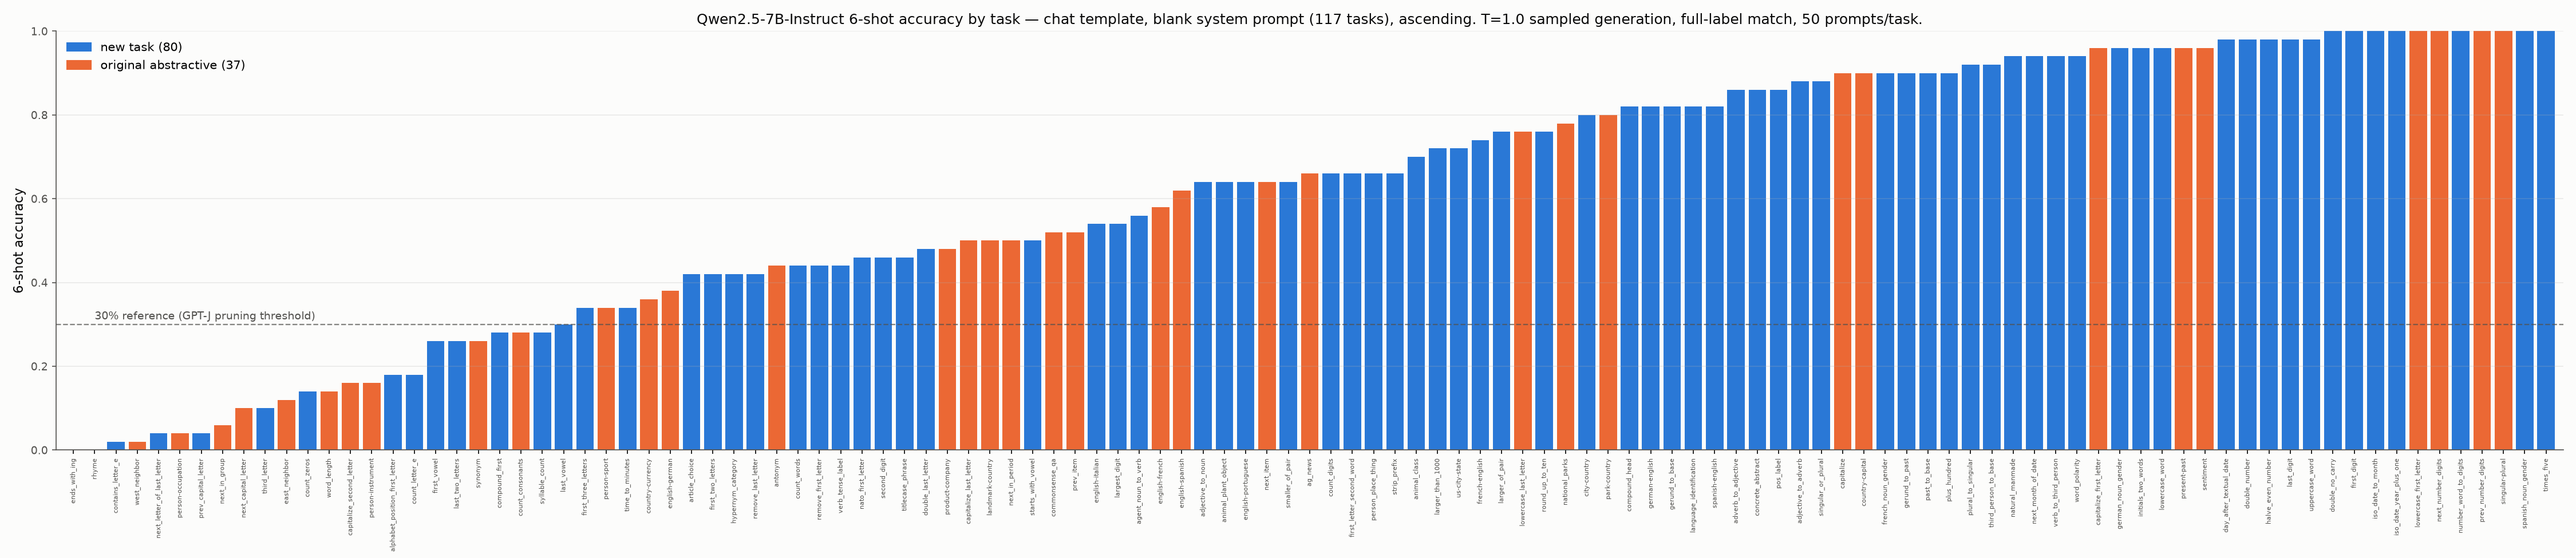
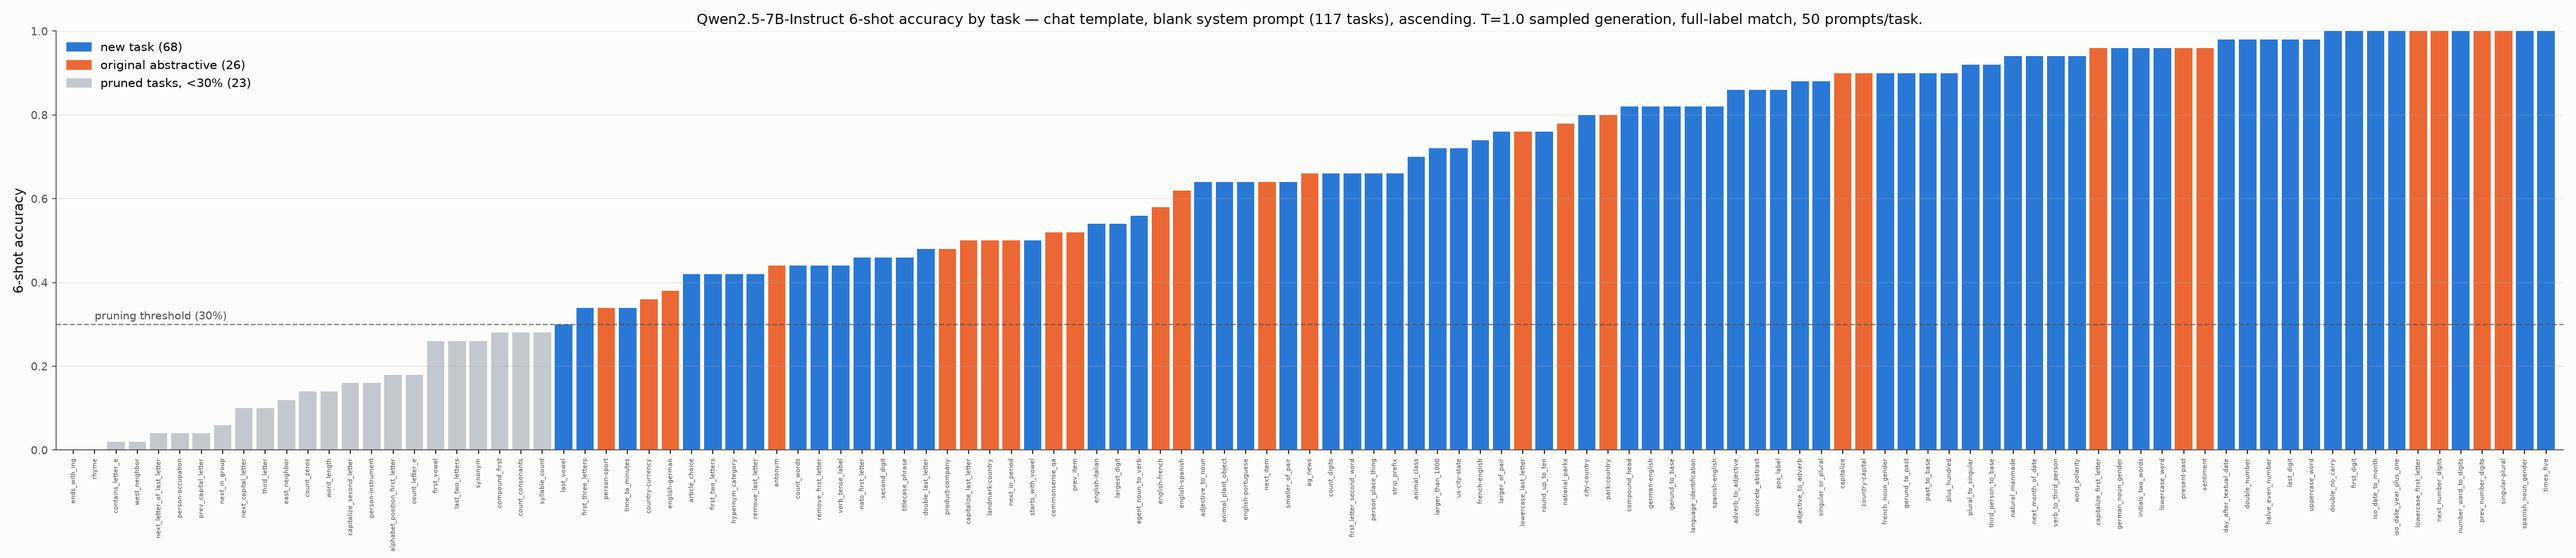
Chat-template bars: grey out pruned tasks (<30%, same rule as GPT-J reference plot)

Changed region(s): [[0.0311, 0.5846, 0.2178, 0.8308], [0.0311, 0.5538, 0.1244, 0.5846], [0.0311, 0.1231, 0.0933, 0.1538]]

diff --git a/src/eval_scripts/plot_chat_template_ext117.py b/src/eval_scripts/plot_chat_template_ext117.py
@@ -36,8 +36,9 @@ ARM_TITLES = {"chat_blank_system": "chat template, blank system prompt",
 
 # validated reference palette (matches plot_extended_nshot_bar.py)
 C_NEW, C_ORIG = "#2a78d6", "#eb6834"
+C_PRUNED = "#c3c8ce"
 SURFACE, INK, INK2 = "#fcfcfb", "#0b0b0b", "#52514e"
-REF_LINE = 0.30
+PRUNE_AT = 0.30
 ARM_COLORS = {"chat_blank_system": "#2a78d6", "chat_no_system": "#7c4dbe",
               "plain": "#eb6834", "gptj": "#52514e"}
 
@@ -97,7 +98,10 @@ def main():
     for arm in ARMS:
         rows = sorted(tasks, key=lambda t: acc[arm][t])
         accs = [acc[arm][t] for t in rows]
-        colors = [C_NEW if meta[t]["origin"] == "new" else C_ORIG for t in rows]
+        # same pruning rule as the GPT-J reference plot: tasks under 30% in THIS arm are greyed
+        colors = [C_PRUNED if acc[arm][t] < PRUNE_AT
+                  else (C_NEW if meta[t]["origin"] == "new" else C_ORIG) for t in rows]
+        n_pruned = sum(1 for a in accs if a < PRUNE_AT)
         fig, ax = plt.subplots(figsize=(30, 6.5))
         fig.patch.set_facecolor(SURFACE)
         ax.set_facecolor(SURFACE)
@@ -116,12 +120,16 @@ def main():
             ax.spines[s].set_visible(False)
         for s in ("left", "bottom"):
             ax.spines[s].set_color(INK2)
-        ax.axhline(REF_LINE, color=INK2, lw=1.1, ls="--", alpha=0.7)
-        ax.text(1, REF_LINE + 0.012, "30% reference (GPT-J pruning threshold)", fontsize=9, color=INK2)
-        n_new = sum(1 for t in rows if meta[t]["origin"] == "new")
+        ax.axhline(PRUNE_AT, color=INK2, lw=1.1, ls="--", alpha=0.7)
+        ax.text(1, PRUNE_AT + 0.012, "pruning threshold (30%)", fontsize=9, color=INK2)
+        n_new = sum(1 for t in rows if meta[t]["origin"] == "new" and acc[arm][t] >= PRUNE_AT)
+        n_orig = sum(1 for t in rows if meta[t]["origin"] != "new" and acc[arm][t] >= PRUNE_AT)
         ax.legend(handles=[Patch(color=C_NEW, label=f"new task ({n_new})"),
-                           Patch(color=C_ORIG, label=f"original abstractive ({len(rows) - n_new})")],
+                           Patch(color=C_ORIG, label=f"original abstractive ({n_orig})"),
+                           Patch(color=C_PRUNED, label=f"pruned tasks, <30% ({n_pruned})")],
                   loc="upper left", fontsize=10, frameon=False)
+        print(f"{arm}: {n_pruned} pruned (<30%), {len(rows) - n_pruned} kept "
+              f"({n_new} new + {n_orig} original)")
         fig.tight_layout()
         out = OUT_DIR / f"bar_{args.n}shot_{arm}.png"
         fig.savefig(out, dpi=150, facecolor=SURFACE)
